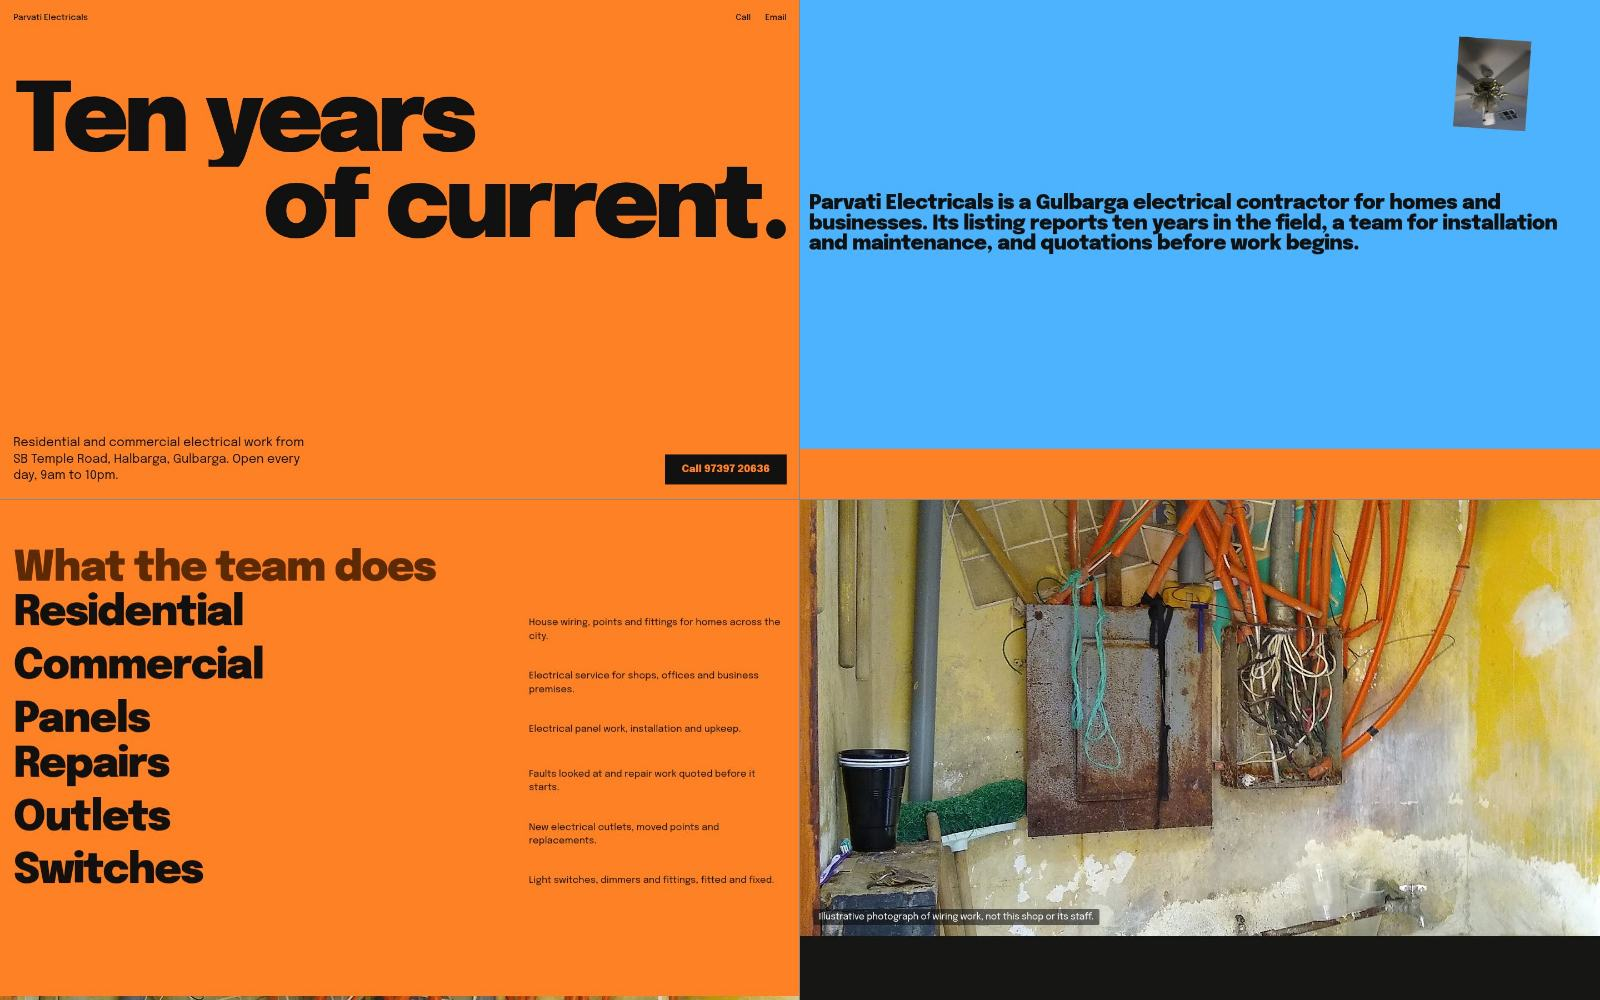
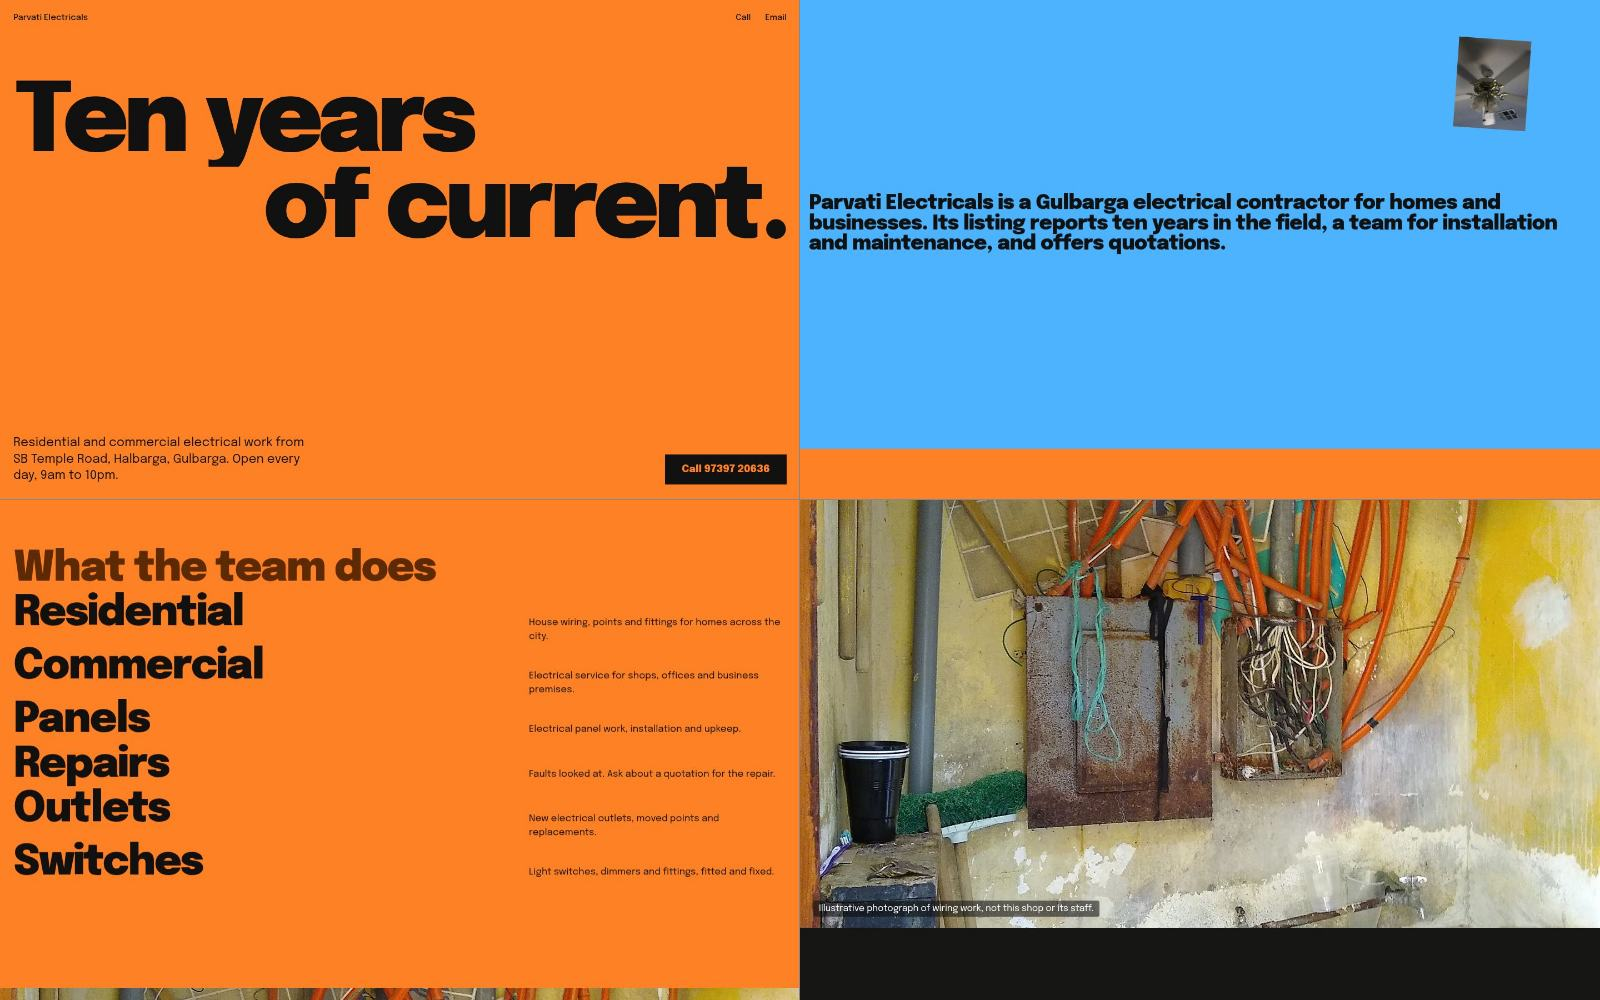
V22 copy: match quotation wording to TBR source (offers quotations; ask about a quotation)

diff --git a/parvati-electricals-gulbarga/index.html b/parvati-electricals-gulbarga/index.html
@@ -389,7 +389,7 @@
 
 <section class="intro">
   <img class="tilt" src="assets/ceiling-fan-mid-spin.jpg" alt="A ceiling fan captured mid-spin" loading="lazy" decoding="async">
-  <p class="rv">Parvati Electricals is a Gulbarga electrical contractor for homes and businesses. Its listing reports ten years in the field, a team for installation and maintenance, and quotations before work begins.</p>
+  <p class="rv">Parvati Electricals is a Gulbarga electrical contractor for homes and businesses. Its listing reports ten years in the field, a team for installation and maintenance, and offers quotations.</p>
 </section>
 
 <section class="caps">
@@ -398,7 +398,7 @@
     <li class="rv"><span class="name">Residential</span><span class="desc">House wiring, points and fittings for homes across the city.</span></li>
     <li class="rv"><span class="name">Commercial</span><span class="desc">Electrical service for shops, offices and business premises.</span></li>
     <li class="rv"><span class="name">Panels</span><span class="desc">Electrical panel work, installation and upkeep.</span></li>
-    <li class="rv"><span class="name">Repairs</span><span class="desc">Faults looked at and repair work quoted before it starts.</span></li>
+    <li class="rv"><span class="name">Repairs</span><span class="desc">Faults looked at. Ask about a quotation for the repair.</span></li>
     <li class="rv"><span class="name">Outlets</span><span class="desc">New electrical outlets, moved points and replacements.</span></li>
     <li class="rv"><span class="name">Switches</span><span class="desc">Light switches, dimmers and fittings, fitted and fixed.</span></li>
   </ul>
@@ -412,7 +412,7 @@
 <section class="versus">
   <div class="top">
     <h2 class="rv">Two kinds of work</h2>
-    <p class="rv">The listing names two worlds: residential and commercial electrical service. One team covers both, from house points to business panels, with quotations offered before work begins.</p>
+    <p class="rv">The listing names two worlds: residential and commercial electrical service. One team covers both, from house points to business panels, and the listing says it offers quotations.</p>
   </div>
   <div class="pair">
     <div class="spec rv">
